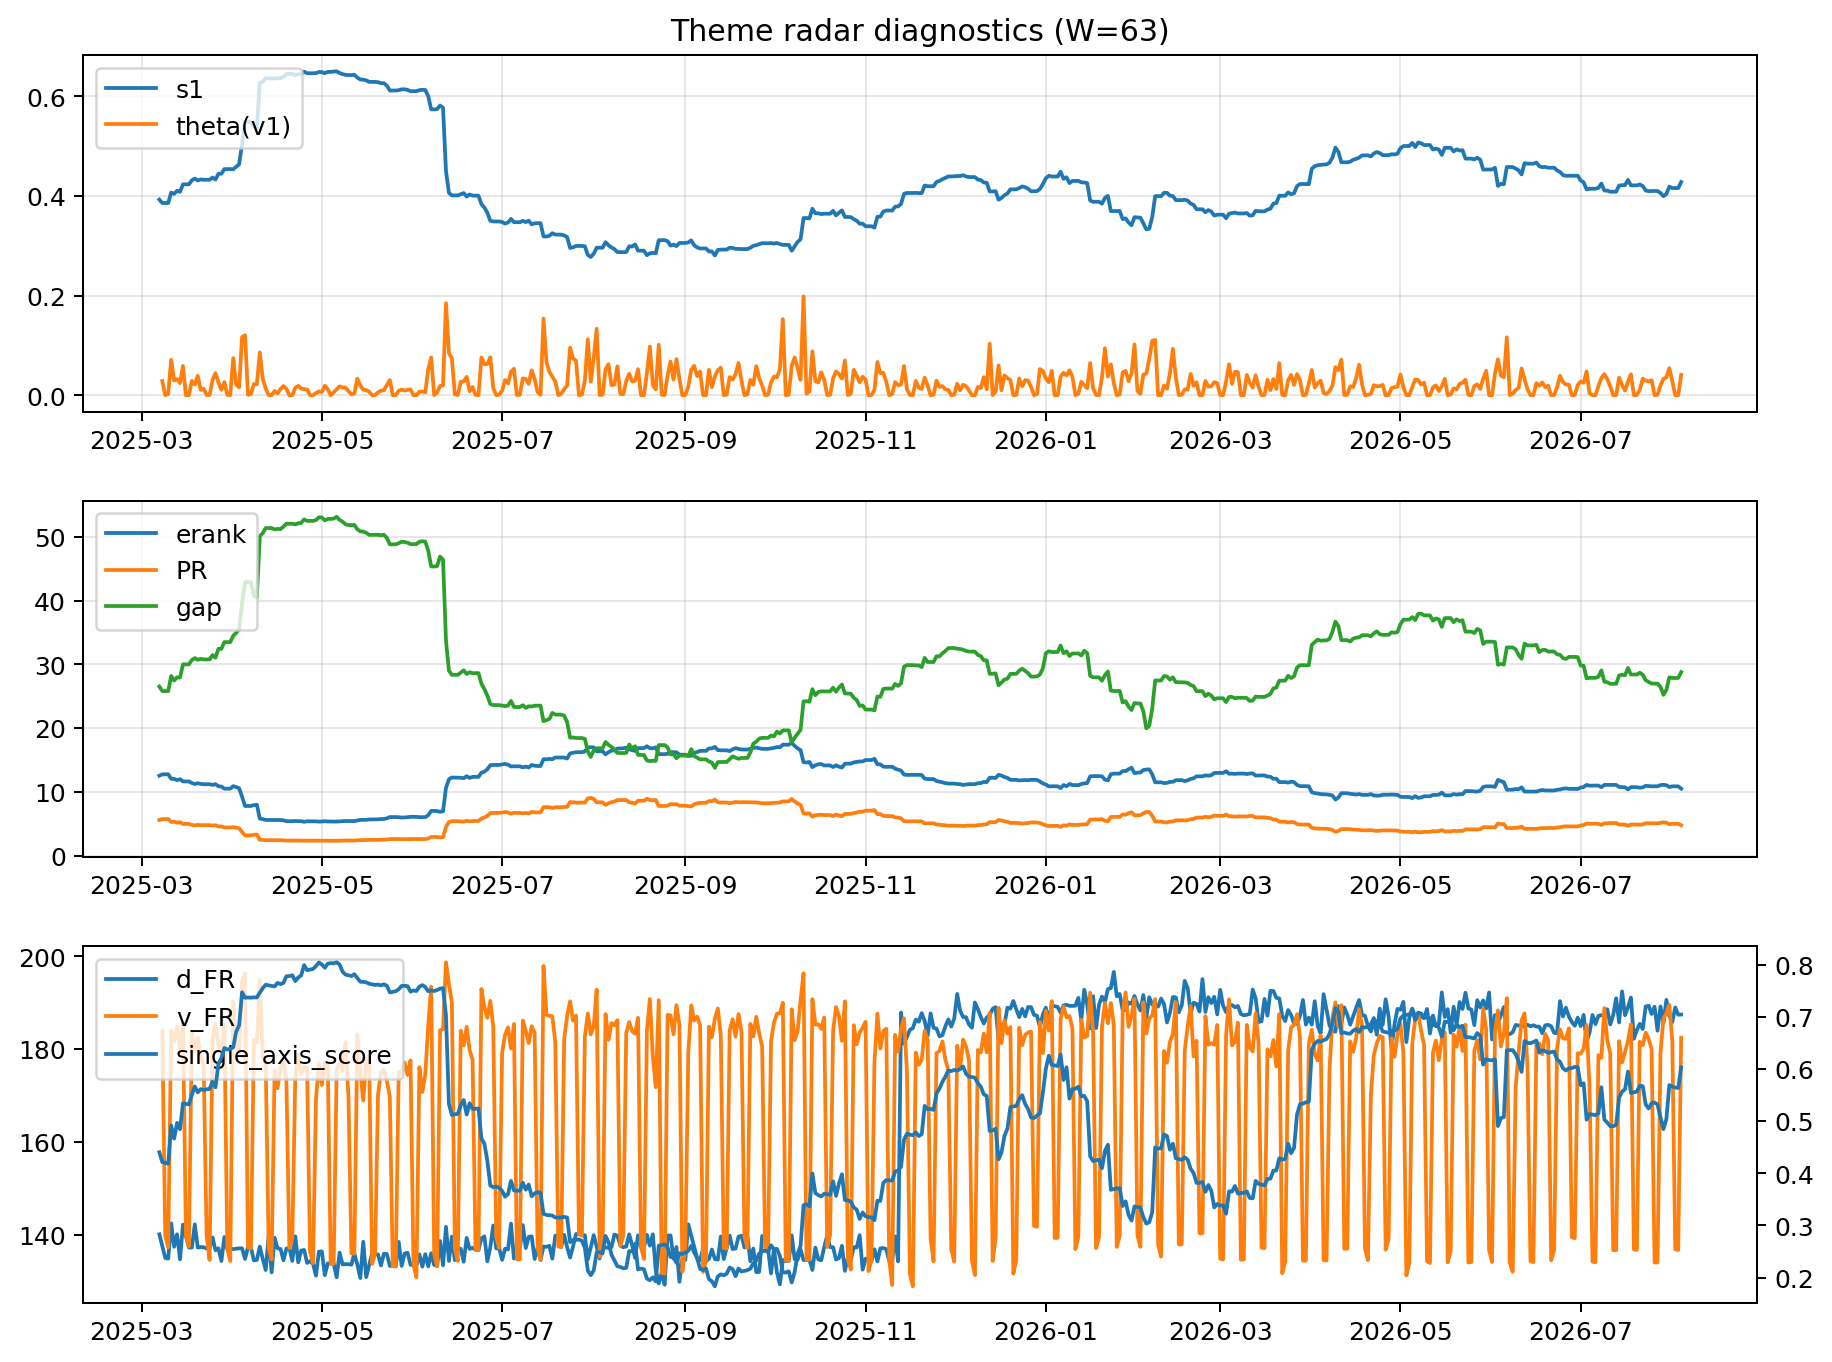
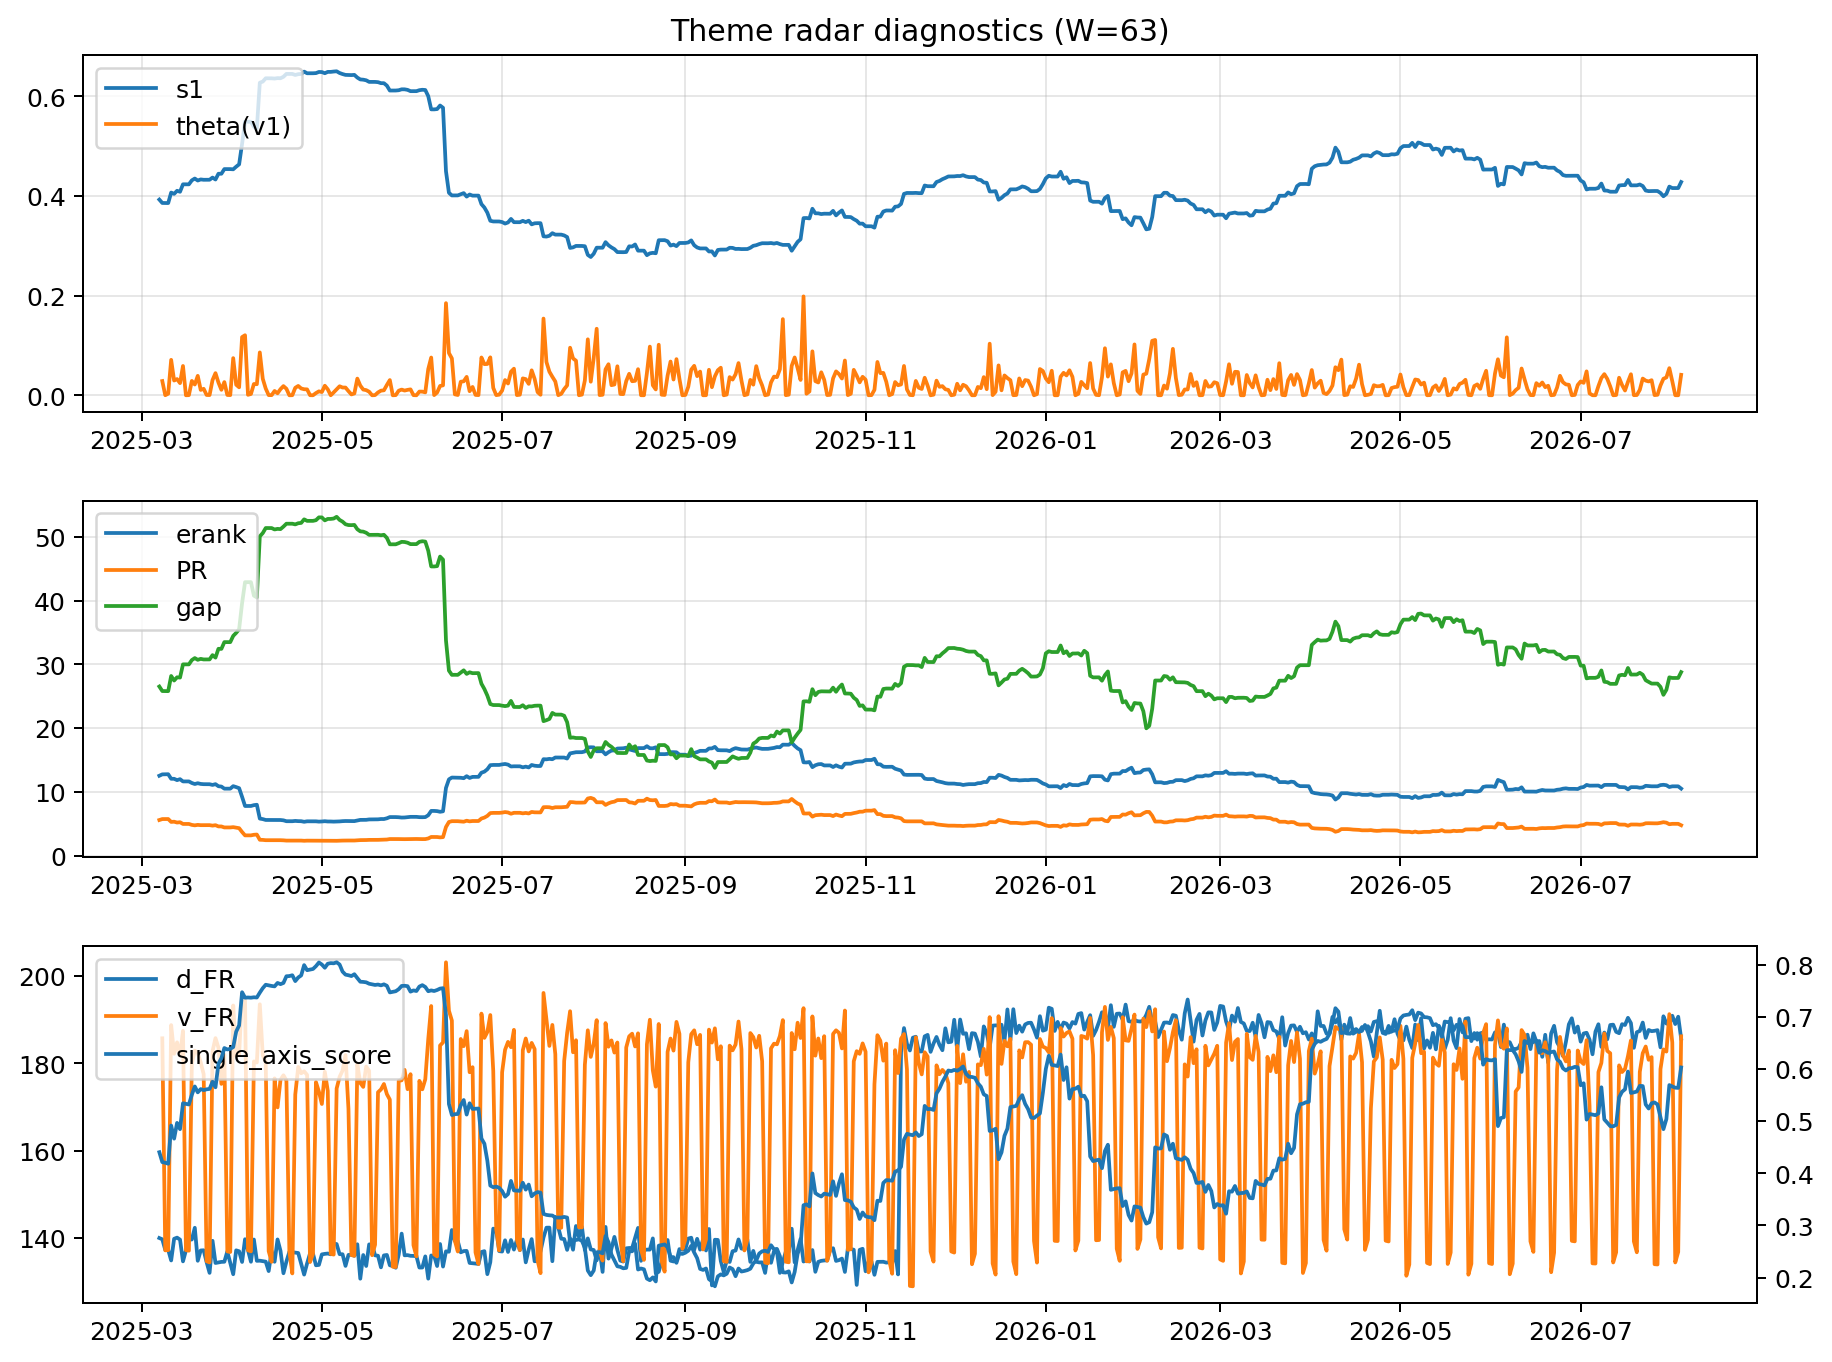
log: 2026-08-04 | sha256:8d6fccd69b68ba9db643994334e8f70bf2d53a79a113788179d190accb2280f3

diff --git a/logs/2026-08-04.md b/logs/2026-08-04.md
@@ -3,43 +3,43 @@
 ![diagnostic W63](../assets/diagnostic/2026-08-04_W63.png)
 
 ## Leaders (v1) — W=63
-- **Nuclear_Uranium** (0.0875733872769996)
-- Semis (0.0671519153305867)
-- Quantum (0.057619597692708)
+- **Nuclear_Uranium** (0.0875733985789955)
+- Semis (0.0671519190754241)
+- Quantum (0.0576196053119693)
 
 ## Challengers — W=63
-**v2:** Semis (0.0873048197647631), Rates (0.0729750528328729), Software_Cloud (0.0722580795017266)
-**v3:** Software_Cloud (0.077069460809618), DataCenter_Infra (0.0751713823472692), Rates (0.0722476351774575)
+**v2:** Semis (0.0873047538400491), Rates (0.0729756613479231), Software_Cloud (0.072257998026646)
+**v3:** Software_Cloud (0.0770695253383771), DataCenter_Infra (0.0751713925474786), Rates (0.0722477001377203)
 
 ## Migration (20D slope) — W=63
 **Top risers:**
-- axis_Quantum: 0.0005774849028871
-- axis_Space: 0.0002912589793474
-- axis_Crypto: 0.0002703947983901
-- axis_Nuclear_Uranium: 0.0002547803880963
-- axis_Semis: 0.0002471654707962
-- axis_Sector_RealEstate: 0.0001955785726436
-- axis_Drones_Autonomy: 0.0001199774398249
-- axis_Sector_Health: 0.0001026830494452
-- axis_Cyber: 9.758080753010088e-05
-- axis_Robotics: 8.503521943577698e-05
+- axis_Quantum: 0.0005774852990953
+- axis_Space: 0.0002912588666017
+- axis_Crypto: 0.0002703948389089
+- axis_Nuclear_Uranium: 0.0002547811173299
+- axis_Semis: 0.000247166225661
+- axis_Sector_RealEstate: 0.0001955787865754
+- axis_Drones_Autonomy: 0.0001199774036284
+- axis_Sector_Health: 0.0001026832977569
+- axis_Cyber: 9.758054176099687e-05
+- axis_Robotics: 8.503548412438627e-05
 
 **Top fallers:**
-- axis_Genomics_Bio: -0.0001043517300413
-- axis_Defense: -0.0001390355872865
-- axis_Sector_ConsDisc: -0.0001604743868725
-- axis_Sector_Energy: -0.0001683857653489
-- axis_Commodities: -0.0001771372286336
-- axis_Sector_Comm: -0.0001916636575804
-- axis_DataCenter_Infra: -0.0002164832166523
-- axis_Credit: -0.0002212404782936
-- axis_Sector_Materials: -0.0002331907336957
-- axis_Rates: -0.0008438101374576
+- axis_Genomics_Bio: -0.0001043517515801
+- axis_Defense: -0.0001390356207185
+- axis_Sector_ConsDisc: -0.0001604744049031
+- axis_Sector_Energy: -0.0001683857078559
+- axis_Commodities: -0.0001771374482344
+- axis_Sector_Comm: -0.000191663689205
+- axis_DataCenter_Infra: -0.0002164830186152
+- axis_Credit: -0.000221241844796
+- axis_Sector_Materials: -0.0002331907250182
+- axis_Rates: -0.0008438138727468
 
 ## Risk line (W=63)
-- s1: 0.4278132103277379
-- theta_v1: 0.0410760956506755
-- v_FR: 182.41667463173823
+- s1: 0.4278131467564238
+- theta_v1: 0.0410761124874601
+- v_FR: 186.1607567636628
 - single_axis_score: 0.6027131782945736
 
 ## Interpretation
@@ -48,7 +48,7 @@
 - Action: Tomorrow watchlist: Quantum, Space, Crypto, Nuclear_Uranium, Semis + v2_top1=Semis
 - Action: Hedge note: normal correlation stability.
 
-- Percentiles (W=63 history): vfr_pct=0.61, theta_pct=0.80, s1_pct=0.60, score_pct=0.67.
+- Percentiles (W=63 history): vfr_pct=0.82, theta_pct=0.80, s1_pct=0.60, score_pct=0.67.
 
 ---
[2 lines of base64/hex data omitted]
